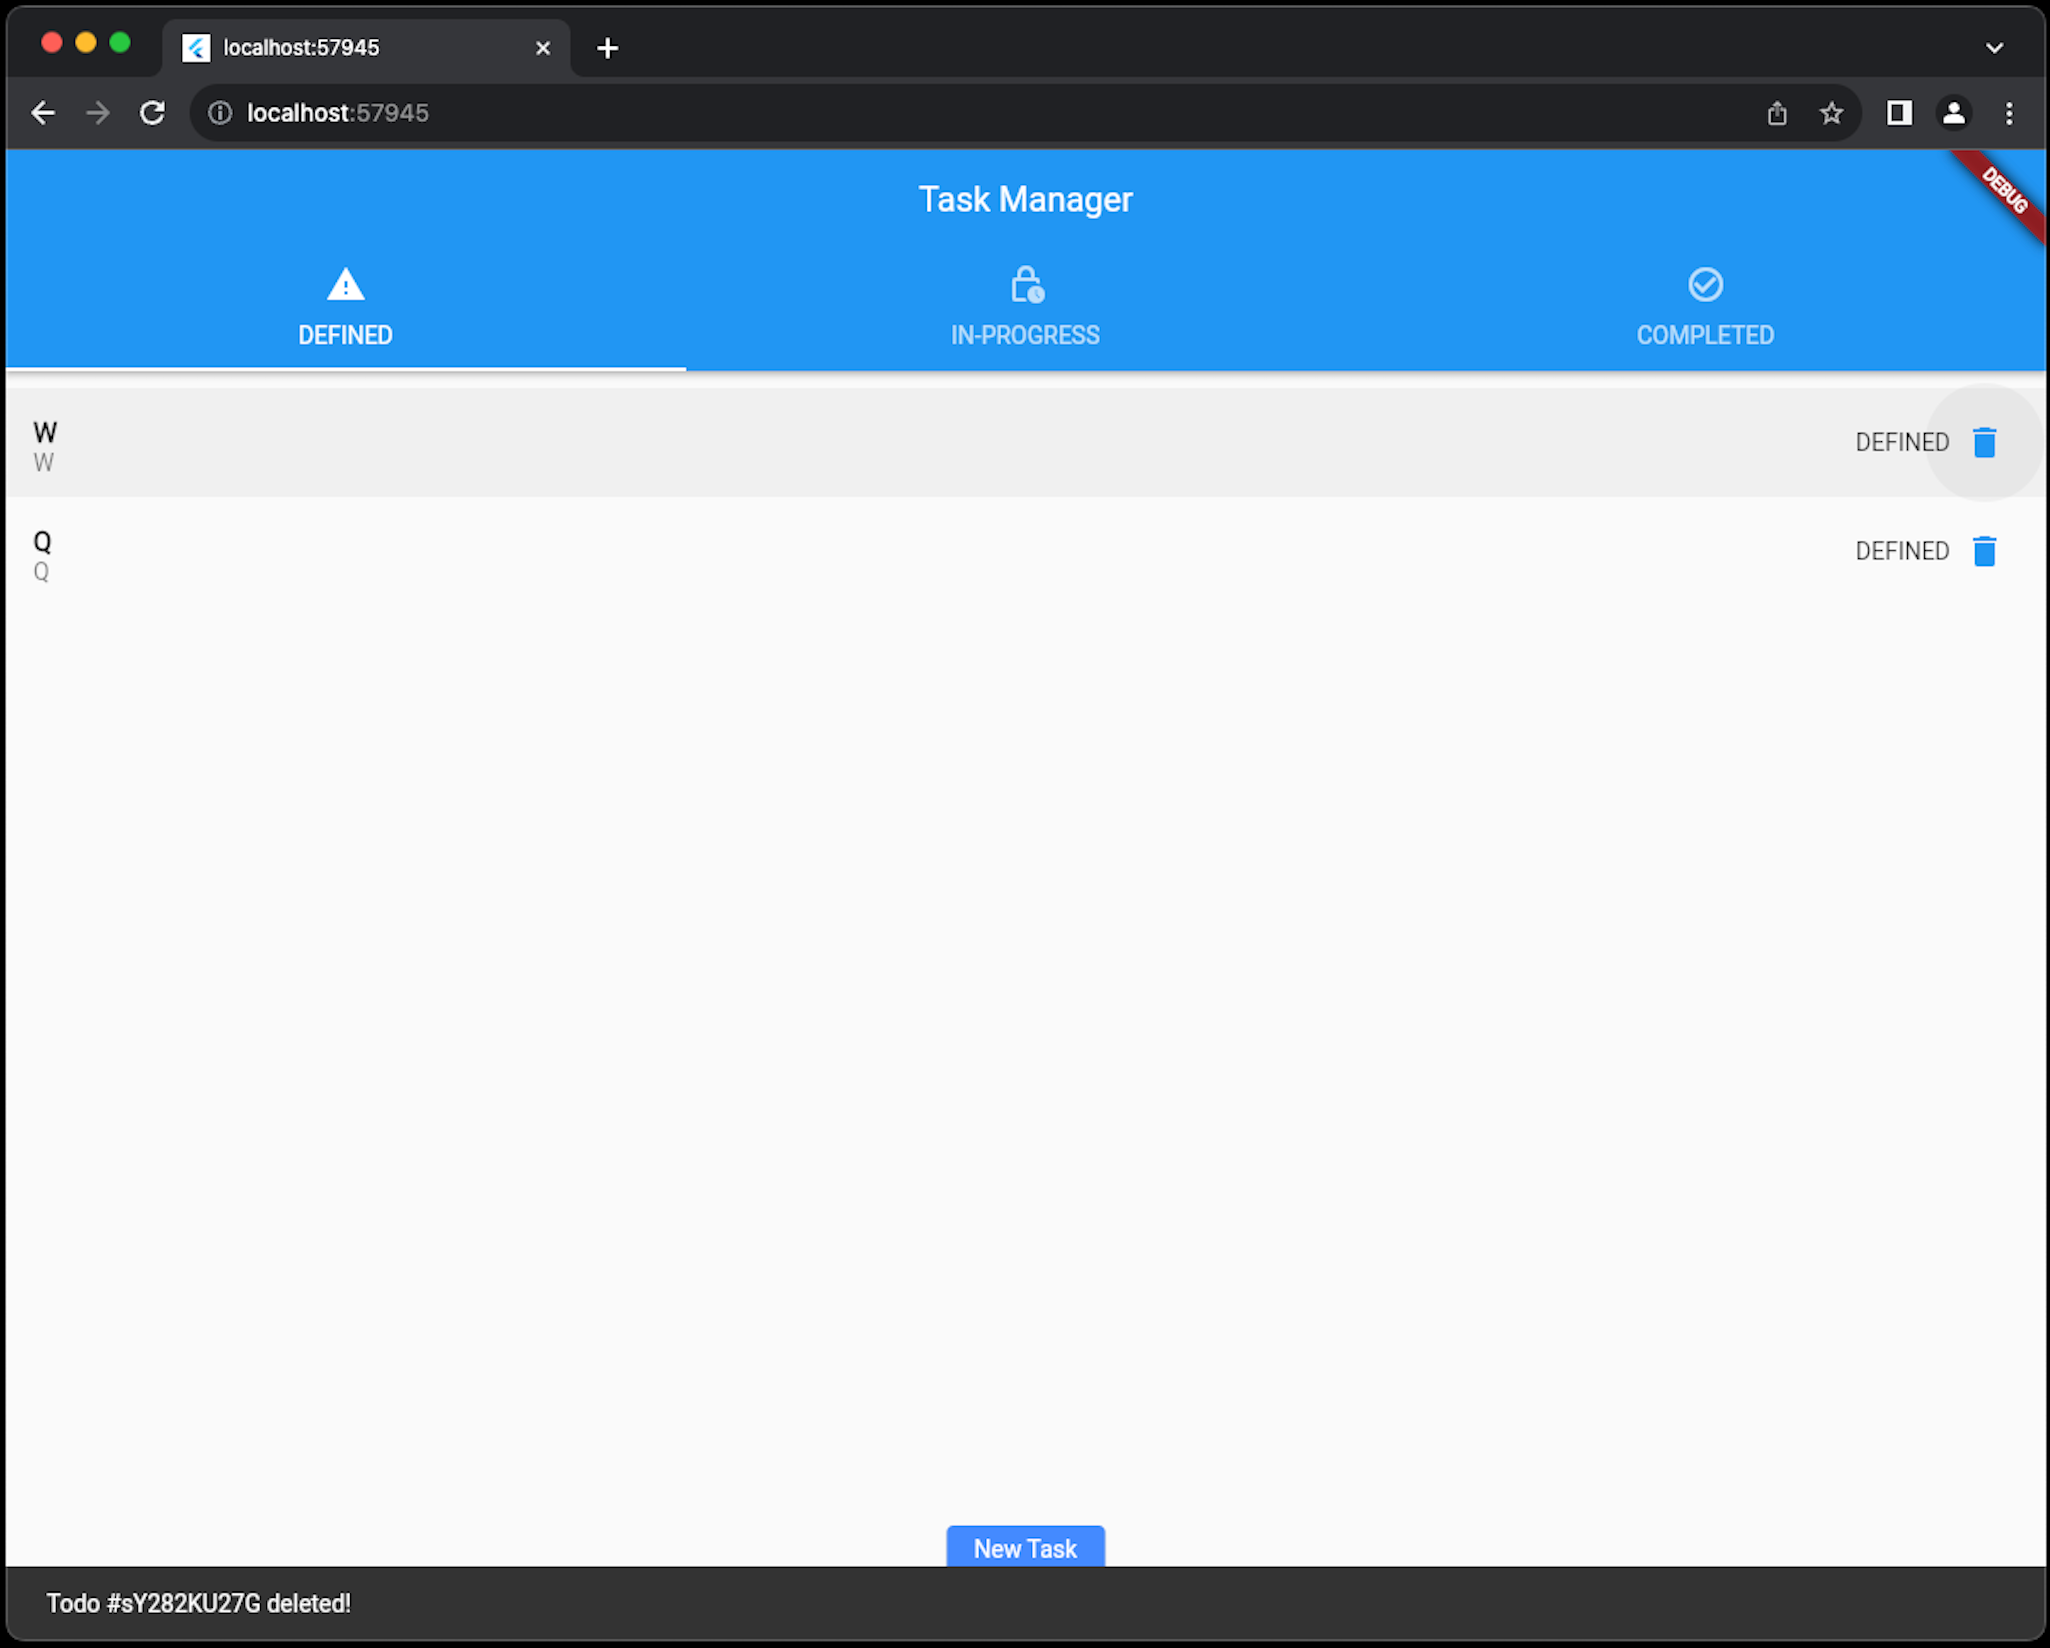
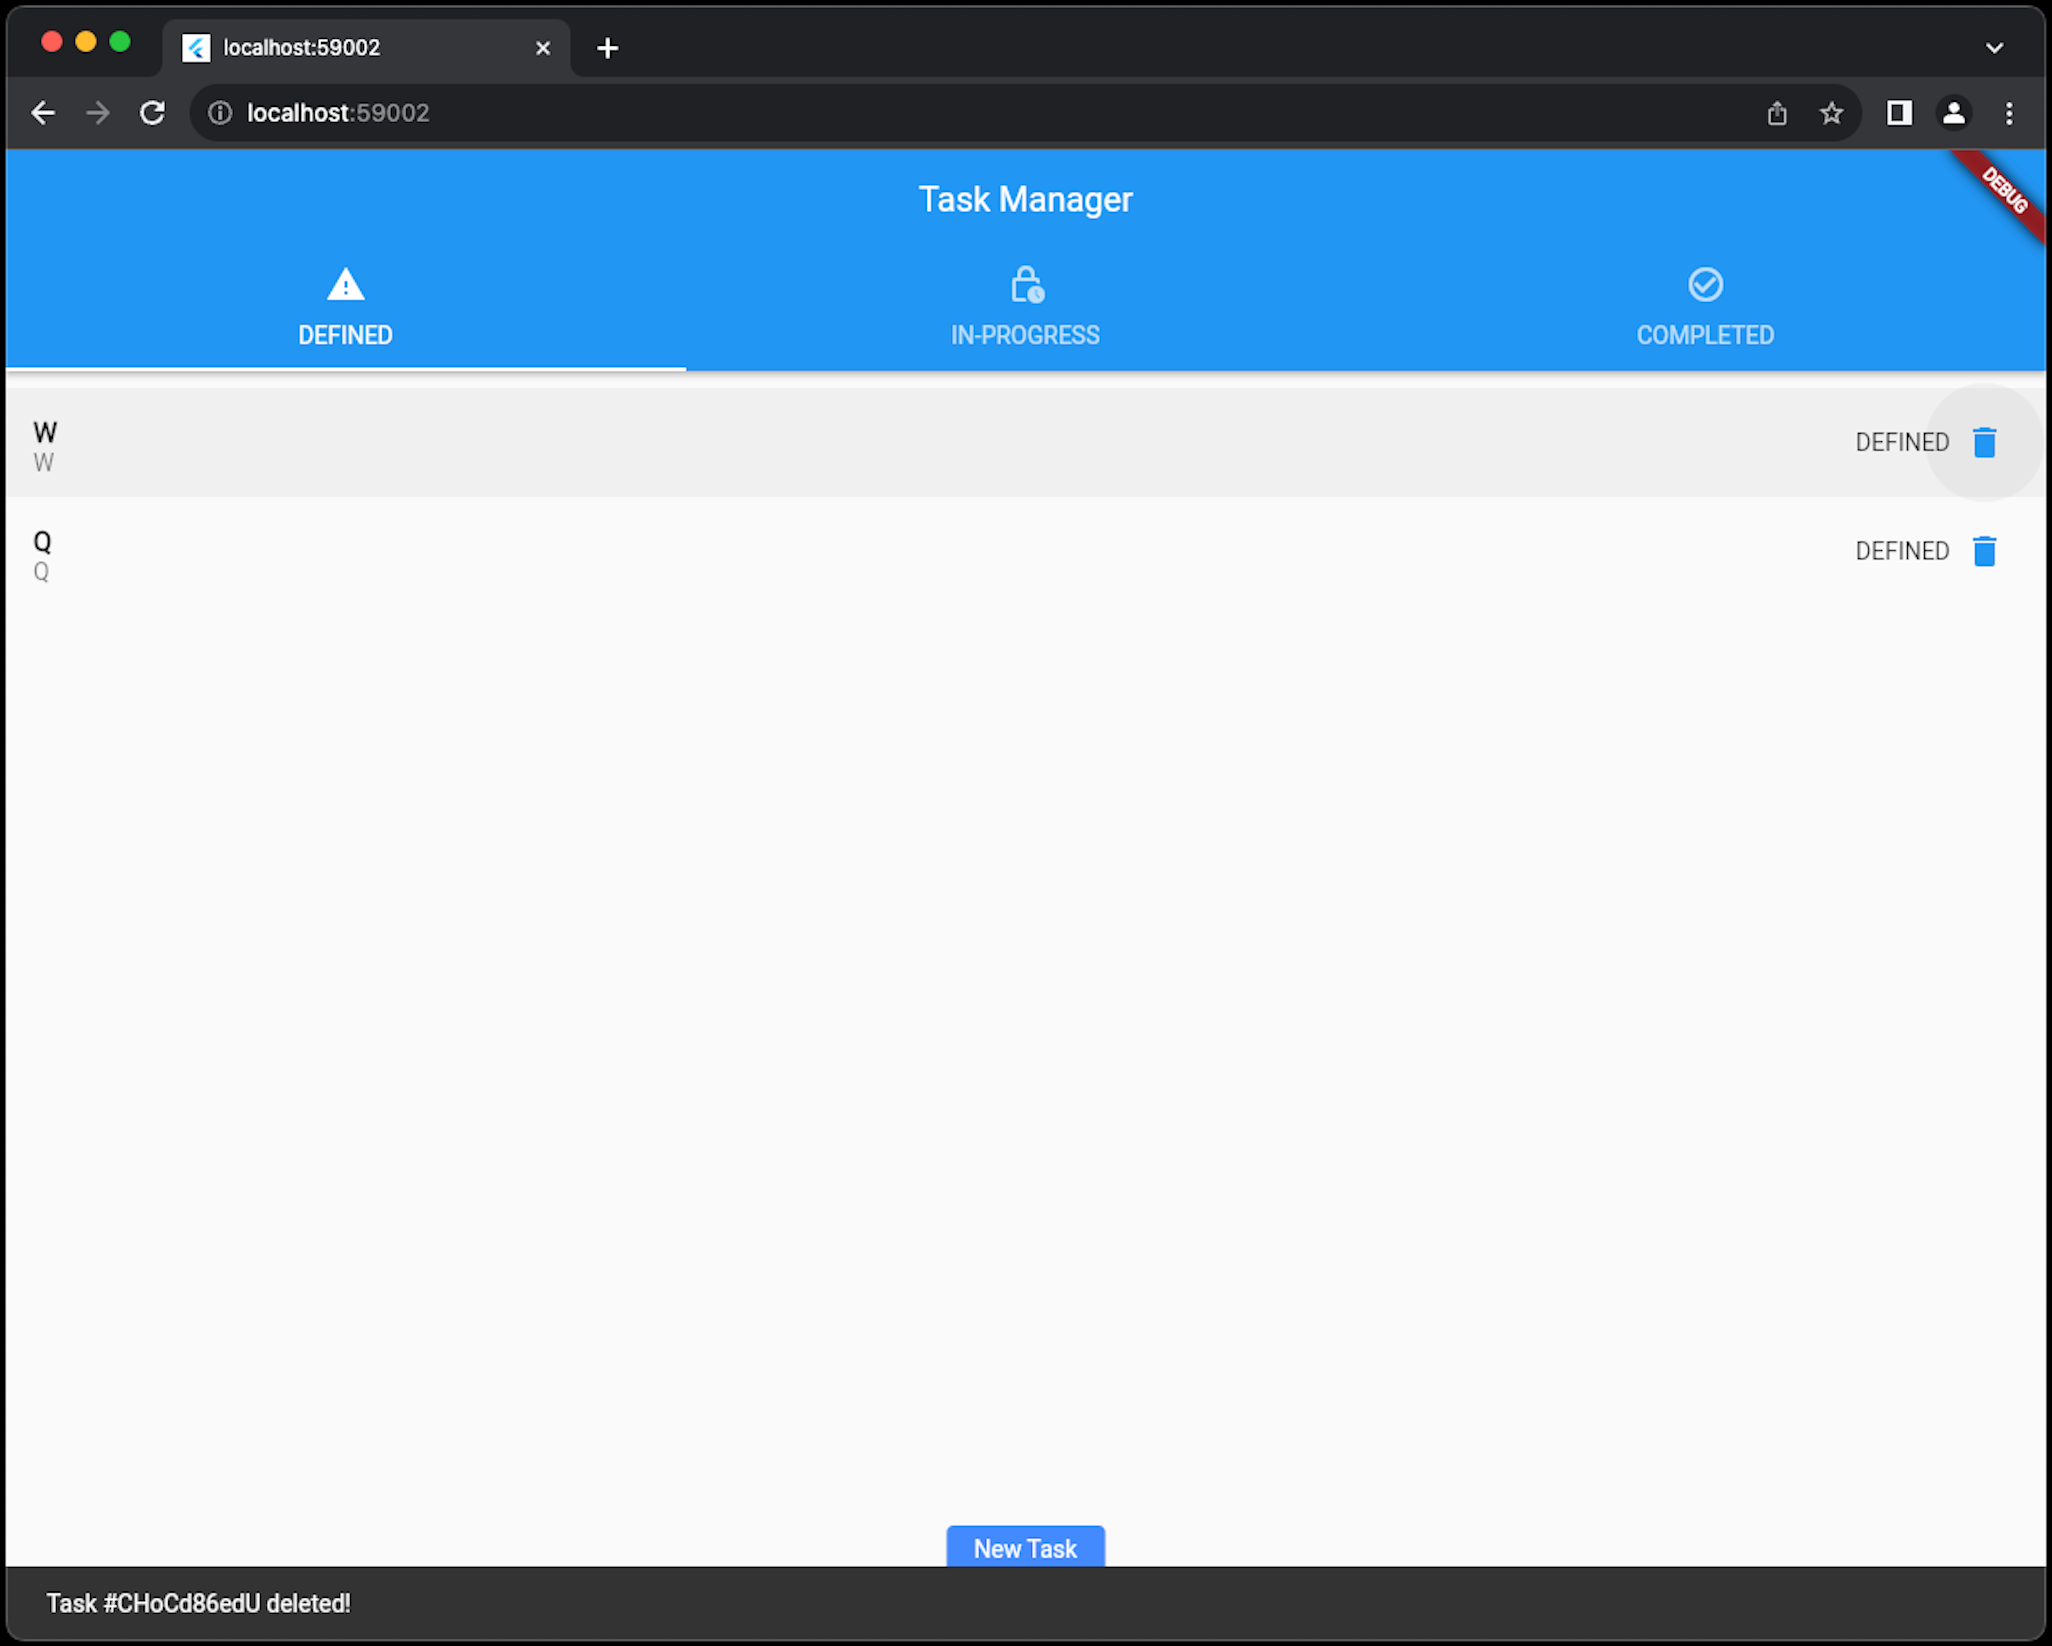
README.md update 4

diff --git a/task_manager/lib/main.dart b/task_manager/lib/main.dart
@@ -208,7 +208,7 @@ class _HomeState extends State<MyApp> with SingleTickerProviderStateMixin {
                                     await deleteTask(varTask.objectId!);
                                     setState(() {
                                       final snackBar = SnackBar(
-                                        content: Text("Todo #"+varId+" deleted!"),
+                                        content: Text("Task #"+varId+" deleted!"),
                                         duration: Duration(seconds: 2),
                                       );
                                       ScaffoldMessenger.of(context)

diff --git a/README.md b/README.md
@@ -24,10 +24,12 @@ Run the command 'flutter run' <br />
 Then select the target device to run it on web, mobile, emulator, simulator, etc.
 
 ### Landing Screen
-Web <br />
+**Web** <br />
 ![img.png](img.png)
 
-Mobile <br />
+**Mobile** <br />
+![img_9.png](img_9.png)
+
 The application opens on the tab of DEFINED tasks. <br />
 The task name can be seen in bold and its corresponding description can be seen just below it.
 
@@ -36,8 +38,12 @@ There are 2 other states that a task can have, IN-PROGRESS and COMPLETED which a
 <br /> <strong> IN-PROGRESS Tab </strong> <br />
 ![img_1.png](img_1.png)
 
+![img_12.png](img_12.png)
+
 <br /> <strong> COMPLETED Tab </strong> <br />
 ![img_2.png](img_2.png)
+
+![img_13.png](img_13.png)
 <br />
 <br />
 
@@ -52,37 +58,52 @@ The tasks that were modified recently show up at the top of the screen.<br />
 ---------
 
 ### New Task Screen
-Web <br />
+**Web** <br />
 ![img_3.png](img_3.png)
+
+**Mobile** <br />
+![img_10.png](img_10.png)
+
 One can add a task name and a task description. <br />
 On clicking the 'CREATE' button, the data gets saved to the Back4App database. <br />
 
-Validation has been added, the task won't be created unless it has a name and a description <br />
+**_Validation_** has been added, the task won't be created unless it has a name and a description <br />
 The user is prompted with 'Some Data Missing' text in a snackbar at the bottom of the screen. <br />
 ![img_4.png](img_4.png)
+
+![img_14.png](img_14.png)
 
 Clicking the 'CREATE' button also takes the user back to the landing screen, where the user can then view the created task under the DEFINED tab. <br />
 
 ### Update Task Screen
-Web <br />
+**Web** <br />
 ![img_5.png](img_5.png)
+
+**Mobile** <br />
+![img_11.png](img_11.png)
+
 The user is presented with the task details alongwith the ID of the task he/she is editing. <br />
 The user may edit the task name, the task description as well as the state of the task to **ONE** of the **THREE** available states, _DEFINED_, _IN-PROGRESS_ or _COMPLETED_ <br />
 
 States:
 ![img_7.png](img_7.png)
 
-Similar validations are in place when editing the task.<br />
+![img_15.png](img_15.png)
+
+Similar **_validations_** are in place when editing the task.<br />
 ![img_6.png](img_6.png)
+
+![img_16.png](img_16.png)
 
 On clicking the 'UPDATE' button, the data is updated in the Back4App database. <br />
 Clicking the 'UPDATE' button also takes the user back to the landing screen, where the user can then view the updated task under the respective tab. <br />
 
 ### Delete Task
-![img_8.png](img_8.png)
 On clicking the trash can icon next to the task name, the task gets deleted.<br />
 The user is notified in a snackbar at the bottom of the screen with a message that contains the deleted task ID. <br />
-![img_9.png](img_9.png)
+![img_8.png](img_8.png)
+
+![img_17.png](img_17.png)
 
 ## References:
 A few resources to get you started if this is your first Flutter project:
